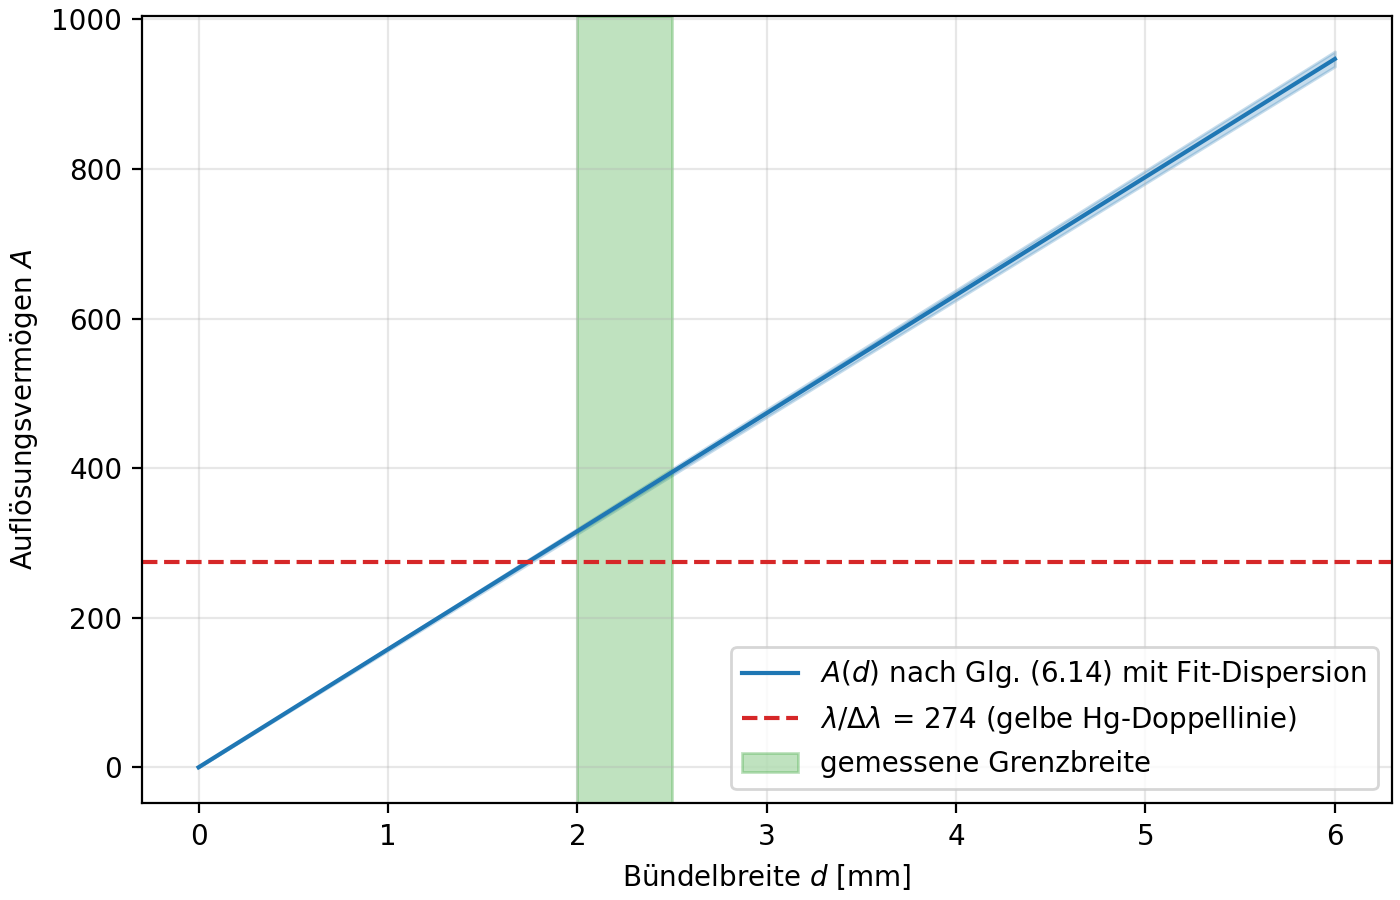
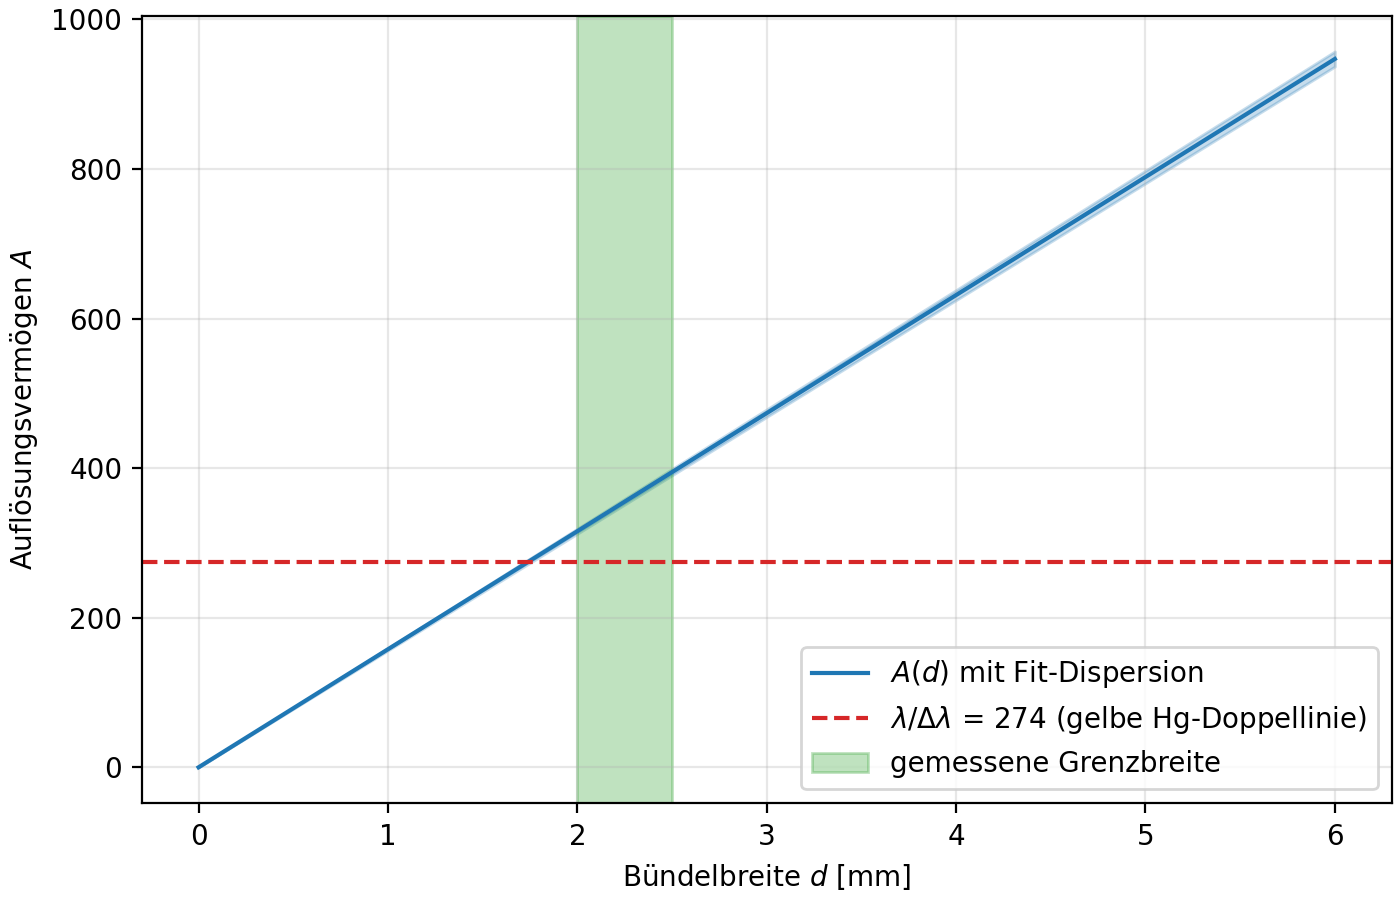
python verbessert

Changed region(s): [[0.5221, 0.7156, 0.9829, 0.9022]]

diff --git a/V5_Optik1/Valentin/auswertung.py b/V5_Optik1/Valentin/auswertung.py
@@ -18,6 +18,7 @@ import uncertainties.umath as umath
 from scipy.optimize import curve_fit
 from scipy.stats import chi2 as chi2_dist
 from pathlib import Path
+from praktikum.literaturwerte import n_schott_f2, n_schott_nsf10
 
 OUTPUT = Path(r'V5_Optik1/Valentin/OutputDateien')
 OUTPUT.mkdir(parents=True, exist_ok=True)
@@ -55,8 +56,7 @@ Lambda_Linien = {
 }
 
 # Schlitzblenden-Messung zum Aufloesungsvermoegen (gelbe Hg-Doppellinie)
-# !!! Hier eure Messwerte eintragen (in mm) !!!
-SPALT_NOCH_AUFGELOEST_MM = 2.5     # kleinste Blendenbreite, bei der die Doppellinie noch getrennt war
+SPALT_NOCH_AUFGELOEST_MM  = 2.5    # kleinste Blendenbreite, bei der die Doppellinie noch getrennt war
 SPALT_NICHT_AUFGELOEST_MM = 2      # groesste Blendenbreite, bei der sie nicht mehr getrennt war
 
 
@@ -192,20 +192,8 @@ print('\nFehlerbeitraege zu n (gelb):')
 for var, beitrag in Erg['gelb']['n'].error_components().items():
     print(f'   {var.tag:18s}: {beitrag:.2e}')
 
-# LaTeX-Tabelle der Ergebnisse
-with open(OUTPUT / 'tabelle_brechungsindex.tex', 'w', encoding='utf-8') as fh:
-    for f in farben:
-        e = Erg[f]
-        fh.write(f"{f.capitalize()} & \\num{{{Lambda_Linien[f]:.2f}}} & "
-                 f"\\num{{{e['delta_V'].nominal_value:.3f} +- {e['delta_V'].std_dev:.3f}}} & "
-                 f"\\num{{{e['delta_L'].nominal_value:.3f} +- {e['delta_L'].std_dev:.3f}}} & "
-                 f"\\num{{{e['n_V'].nominal_value:.5f} +- {e['n_V'].std_dev:.5f}}} & "
-                 f"\\num{{{e['n_L'].nominal_value:.5f} +- {e['n_L'].std_dev:.5f}}} & "
-                 f"\\num{{{e['n'].nominal_value:.5f} +- {e['n'].std_dev:.5f}}} \\\\\n")
-
-
 # ---------------------------------------------------------------------------
-# Anpassung: vereinfachte Sellmeier-Formel = Cauchy-Formel (Glg. 6.13)
+# Anpassung: vereinfachte Sellmeier-Formel = Cauchy-Formel
 # lambda in Mikrometer -> gut konditionierte Parameter
 # ---------------------------------------------------------------------------
 lam_um = lam_arr / 1000
@@ -252,22 +240,41 @@ print(f'chi2/ndof = {chi2_2:.2f}/{ndof2} = {chi2_2 / ndof2:.2f},  p = {chi2_dist
 
 lam_fein = np.linspace(0.39, 0.66, 500)
 
-fig, (ax, rs) = plt.subplots(2, figsize=(9, 7), sharex=True, constrained_layout=True,
-                             gridspec_kw={'height_ratios': [2.2, 1]})
-ax.errorbar(lam_arr, n_nom, yerr=n_err, fmt='o', capsize=3, color='black', zorder=3,
-            label='Messwerte (gewichtetes Mittel V/L)')
-ax.plot(lam_fein * 1000, cauchy3(lam_fein, *popt3), color='tab:blue', lw=2,
-        label=f'Cauchy-Fit $c_0+c_2/\\lambda^2+c_4/\\lambda^4$, $\\chi^2/n_\\mathrm{{dof}}$ = {chi2_3:.1f}/{ndof3}')
-ax.plot(lam_fein * 1000, cauchy2(lam_fein, *popt2), color='tab:orange', lw=1.5, ls='--',
-        label=f'Cauchy-Fit $c_0+c_2/\\lambda^2$, $\\chi^2/n_\\mathrm{{dof}}$ = {chi2_2:.1f}/{ndof2}')
+fig, (ax, rs) = plt.subplots(
+    2,
+    figsize=(9, 7),
+    sharex=True,
+    constrained_layout=True,
+    gridspec_kw={'height_ratios': [2.2, 1]}
+)
+ax.errorbar(
+    lam_arr,
+    n_nom, yerr=n_err,
+    fmt='o', capsize=3,
+    color='black', zorder=3,
+    label='Messwerte (gewichtetes Mittel V/L)'
+    )
+ax.plot(
+    lam_fein * 1000,
+    cauchy3(lam_fein, *popt3),
+    color='tab:blue', lw=2,
+    label=f'Cauchy-Fit $c_0+c_2/\\lambda^2+c_4/\\lambda^4$, $\\chi^2/n_\\mathrm{{dof}}$ = {chi2_3:.1f}/{ndof3}'
+    )
+ax.plot(
+    lam_fein * 1000,
+    cauchy2(lam_fein, *popt2),
+    color='tab:orange',
+    lw=1.5,
+    ls='--',
+    label=f'Cauchy-Fit $c_0+c_2/\\lambda^2$, $\\chi^2/n_\\mathrm{{dof}}$ = {chi2_2:.1f}/{ndof2}'
+    )
 ax.set_ylabel('Brechungsindex $n$')
 ax.set_title('Dispersionskurve $n(\\lambda)$ des Prismas')
 ax.grid(alpha=0.3)
 ax.legend()
 
 rs.errorbar(lam_arr, res3, yerr=n_err, fmt='o', capsize=3, color='tab:blue', label='3-Parameter-Fit')
-rs.errorbar(lam_arr + 3, res2, yerr=n_err, fmt='s', capsize=3, color='tab:orange', mfc='none',
-            label='2-Parameter-Fit (um +3 nm versetzt)')
+rs.errorbar(lam_arr + 3, res2, yerr=n_err, fmt='s', capsize=3, color='tab:orange', mfc='none', label='2-Parameter-Fit (um +3 nm versetzt)')
 rs.axhline(0, color='grey', lw=1)
 rs.set_xlabel('Wellenlänge $\\lambda$ [nm]')
 rs.set_ylabel('$n - n_\\mathrm{fit}$')
@@ -280,35 +287,27 @@ plt.close(fig)
 # ---------------------------------------------------------------------------
 # Vergleich mit Herstellerangaben (SCHOTT-Sellmeier-Koeffizienten, lambda in um)
 # ---------------------------------------------------------------------------
-SCHOTT = {
-    'F2':     (1.34533359, 0.209073176, 0.937357162, 0.00997743871, 0.0470450767, 111.886764),
-    'N-BK7':  (1.03961212, 0.231792344, 1.01046945, 0.00600069867, 0.0200179144, 103.560653),
-    'N-SF10': (1.62153902, 0.256287842, 1.64447552, 0.0122241457, 0.0595736775, 147.468793),
-}
 
+n_F2_kat = np.array(n_schott_f2(lam_um))
+n_nsf10_kat = np.array(n_schott_nsf10(lam_um))
 
-def sellmeier(lam, B1, B2, B3, C1, C2, C3):
-    l2 = lam**2
-    return np.sqrt(1 + B1 * l2 / (l2 - C1) + B2 * l2 / (l2 - C2) + B3 * l2 / (l2 - C3))
+chi2_F2_kat = np.sum(((n_nom - n_F2_kat) / n_err)**2)
+chi2_nsf10_kat = np.sum(((n_nom - n_nsf10_kat) / n_err)**2)
 
+print(f'{'F2':7s}: mittlere Abweichung n_mess - n_kat = {np.mean(n_nom - n_F2_kat):+.5f},  '
+          f'chi2/ndof = {chi2_F2_kat:.1f}/{len(lam_um)}')
+print(f'{'N-SF10':7s}: mittlere Abweichung n_mess - n_kat = {np.mean(n_nom - n_nsf10_kat):+.5f},  '
+          f'chi2/ndof = {chi2_nsf10_kat:.1f}/{len(lam_um)}')
 
-print('\n=== Vergleich mit Herstellerangaben (SCHOTT) ===')
-for glas, koeff in SCHOTT.items():
-    n_kat = sellmeier(lam_um, *koeff)
-    chi2_kat = np.sum(((n_nom - n_kat) / n_err)**2)
-    print(f'{glas:7s}: mittlere Abweichung n_mess - n_kat = {np.mean(n_nom - n_kat):+.5f},  '
-          f'chi2/ndof = {chi2_kat:.1f}/{len(lam_um)}')
-
-n_F2 = sellmeier(lam_um, *SCHOTT['F2'])
 print('\nLinie        n_mess               n_F2       Abw.     Abw./sigma')
-for f, nm, ne, nk in zip(farben, n_nom, n_err, n_F2):
+for f, nm, ne, nk in zip(farben, n_nom, n_err, n_F2_kat):
     print(f'{f:11s} {nm:.5f}+/-{ne:.5f}  {nk:.5f}  {nm - nk:+.5f}  {(nm - nk) / ne:+.2f}')
 
 # gemeinsamer Offset zu F2 (1 Parameter) als Test auf systematische Verschiebung
 w = 1 / n_err**2
-offset = np.sum(w * (n_nom - n_F2)) / np.sum(w)
+offset = np.sum(w * (n_nom - n_F2_kat)) / np.sum(w)
 offset_err = 1 / np.sqrt(np.sum(w))
-chi2_off = np.sum(((n_nom - n_F2 - offset) / n_err)**2)
+chi2_off = np.sum(((n_nom - n_F2_kat - offset) / n_err)**2)
 print(f'Konstanter Offset zu F2: {offset:+.5f} +/- {offset_err:.5f},  '
       f'chi2 nach Offset = {chi2_off:.1f}/{len(lam_um) - 1}')
 
@@ -321,10 +320,10 @@ def n_von_eps(delta_deg, eps_deg):
     return np.sin(np.deg2rad(delta_deg + eps_deg) / 2) / np.sin(np.deg2rad(eps_deg) / 2)
 
 
-popt_eps, pcov_eps = curve_fit(lambda d, e: n_von_eps(d, e), delta_nom, n_F2, p0=[60.0],
+popt_eps, pcov_eps = curve_fit(lambda d, e: n_von_eps(d, e), delta_nom, n_F2_kat, p0=[60.0],
                                sigma=n_err, absolute_sigma=True)
 eps_fit = un.ufloat(popt_eps[0], np.sqrt(pcov_eps[0, 0]))
-chi2_eps = np.sum(((n_von_eps(delta_nom, popt_eps[0]) - n_F2) / n_err)**2)
+chi2_eps = np.sum(((n_von_eps(delta_nom, popt_eps[0]) - n_F2_kat) / n_err)**2)
 print(f"epsilon, das Messung und F2 zur Deckung bringt: {eps_fit} deg "
       f"= 60° {(eps_fit.nominal_value - 60) * 60:+.1f}',  chi2 = {chi2_eps:.1f}/{len(lam_um) - 1}")
 
@@ -333,29 +332,44 @@ lam_CdF = {'C': 0.6563, 'd': 0.5876, 'F': 0.4861, 'D (589,3)': 0.5893}
 n_fit_at = {k: c0_ + c2_ / l**2 + c4_ / l**4
             for k, l in lam_CdF.items() for c0_, c2_, c4_ in [par3]}
 abbe_fit = (n_fit_at['d'] - 1) / (n_fit_at['F'] - n_fit_at['C'])
-n_F2_at = {k: sellmeier(l, *SCHOTT['F2']) for k, l in lam_CdF.items()}
+n_F2_at = {k: n_schott_f2(l) for k, l in lam_CdF.items()}
 abbe_F2 = (n_F2_at['d'] - 1) / (n_F2_at['F'] - n_F2_at['C'])
 print('\nLinie      n_fit                 n_F2')
 for k in lam_CdF:
     print(f'{k:10s} {fmt_u(n_fit_at[k])}   {n_F2_at[k]:.5f}')
 print(f'Abbe-Zahl nu_d: Fit = {abbe_fit:.2f},  F2 = {abbe_F2:.2f}')
 
-fig, (ax, rs) = plt.subplots(2, figsize=(9, 7), sharex=True, constrained_layout=True,
-                             gridspec_kw={'height_ratios': [2.2, 1]})
-farben_glas = {'F2': 'tab:green', 'N-BK7': 'tab:purple', 'N-SF10': 'tab:red'}
+fig, (ax, rs) = plt.subplots(
+    2,
+    figsize=(9, 7),
+    sharex=True,
+    constrained_layout=True,
+    gridspec_kw={'height_ratios': [2.2, 1]}
+    )
 ax.errorbar(lam_arr, n_nom, yerr=n_err, fmt='o', capsize=3, color='black', zorder=3, label='Messwerte')
-for glas, koeff in SCHOTT.items():
-    ax.plot(lam_fein * 1000, sellmeier(lam_fein, *koeff), color=farben_glas[glas], lw=1.8,
-            label=f'SCHOTT {glas} (Herstellerangabe)')
+ax.plot(lam_fein * 1000,
+        n_schott_f2(lam_fein),
+        color='tab:green',
+        lw=1.8,
+        label='SCHOTT F2 (Literaturwert)'
+        )
+ax.plot(lam_fein * 1000,
+        n_schott_nsf10(lam_fein),
+        color='tab:red',
+        lw=1.8,
+        label='SCHOTT N_SF10 (Herstellerangabe)'
+        )
 ax.set_ylabel('Brechungsindex $n$')
-ax.set_title('Vergleich mit Herstellerangaben')
+ax.set_title('Vergleich mit Literaturwerten')
 ax.grid(alpha=0.3)
 ax.legend()
 
-rs.errorbar(lam_arr, n_nom - n_F2, yerr=n_err, fmt='o', capsize=3, color='black', label='$n_\\mathrm{mess}-n_\\mathrm{F2}$')
-rs.plot(lam_fein * 1000, cauchy3(lam_fein, *popt3) - sellmeier(lam_fein, *SCHOTT['F2']),
-        color='tab:blue', label='Cauchy-Fit $-$ F2')
-rs.axhline(0, color='tab:green', lw=1.5)
+rs.errorbar(lam_arr, n_nom - n_F2_kat, yerr=n_err, fmt='o', capsize=3, color='black', label='$n_\\mathrm{mess}-n_\\mathrm{F2}$')
+rs.plot(lam_fein * 1000,
+        cauchy3(lam_fein, *popt3) - n_schott_f2(lam_fein),
+        color='tab:blue',
+        label='Cauchy-Fit $-$ F2 (Literaturwert)'
+        )
 rs.set_xlabel('Wellenlänge $\\lambda$ [nm]')
 rs.set_ylabel('$n - n_\\mathrm{F2}$')
 rs.grid(alpha=0.3)
@@ -370,7 +384,7 @@ plt.close(fig)
 lam1, lam2 = 576.96, 579.07                 # nm
 lam_m = (lam1 + lam2) / 2
 dlam = lam2 - lam1
-A_noetig = lam_m / dlam                      # Glg. 6.10: benoetigtes Aufloesungsvermoegen
+A_noetig = lam_m / dlam                      
 
 # Dispersion dn/dlambda bei lam_m aus dem Fit (korrelierte Parameter!)
 c0, c2, c4 = par3
@@ -396,34 +410,30 @@ print(f'erwartete Grenz-Buendelbreite d = {d_grenz_erwartet_nm / 1e6:.3f} mm')
 A_pro_mm = -dn_dlam * geo * 1e6
 print(f'A(d) = {A_pro_mm:.1f} * d/mm')
 
-if SPALT_NOCH_AUFGELOEST_MM is not None and SPALT_NICHT_AUFGELOEST_MM is not None:
-    b1, b2 = SPALT_NICHT_AUFGELOEST_MM, SPALT_NOCH_AUFGELOEST_MM
-    # Grenzbreite liegt irgendwo im Intervall [b1, b2] -> Gleichverteilung
-    d_grenz = un.ufloat((b1 + b2) / 2, (b2 - b1) / np.sqrt(12), tag='Blendenbreite')
-    A_exp = A_pro_mm * d_grenz
-    abw = (A_exp - A_noetig)
-    print(f'gemessene Grenzbreite d = {d_grenz} mm')
-    print(f'experimentelles Aufloesungsvermoegen A = {A_exp}')
-    print(f'Vergleich mit lambda/dlambda = {A_noetig:.1f}: Abweichung {abw.nominal_value:.1f} '
-          f'= {abw.nominal_value / abw.std_dev:.1f} sigma')
-    for var, beitrag in A_exp.error_components().items():
-        if beitrag > 0.05:
-            print(f'   Beitrag {var.tag}: {beitrag:.2f}')
-else:
-    print('-> Blendenbreiten SPALT_NOCH_AUFGELOEST_MM / SPALT_NICHT_AUFGELOEST_MM oben eintragen!')
+b1, b2 = SPALT_NICHT_AUFGELOEST_MM, SPALT_NOCH_AUFGELOEST_MM
+# Grenzbreite liegt irgendwo im Intervall [b1, b2] -> Gleichverteilung
+d_grenz = un.ufloat((b1 + b2) / 2, (b2 - b1) / np.sqrt(12), tag='Blendenbreite')
+A_exp = A_pro_mm * d_grenz
+abw = (A_exp - A_noetig)
+print(f'gemessene Grenzbreite d = {d_grenz} mm')
+print(f'experimentelles Aufloesungsvermoegen A = {A_exp}')
+print(f'Vergleich mit lambda/dlambda = {A_noetig:.1f}: Abweichung {abw.nominal_value:.1f} '
+        f'= {abw.nominal_value / abw.std_dev:.1f} sigma')
+for var, beitrag in A_exp.error_components().items():
+    if beitrag > 0.05:
+        print(f'   Beitrag {var.tag}: {beitrag:.2f}')
 
 # Plot A(d) mit Erwartung
 fig, ax = plt.subplots(figsize=(7, 4.5), constrained_layout=True)
 d_ax = np.linspace(0, 6, 200)
 A_nom = A_pro_mm.nominal_value * d_ax
 A_sig = A_pro_mm.std_dev * d_ax
-ax.plot(d_ax, A_nom, color='tab:blue', label='$A(d)$ nach Glg. (6.14) mit Fit-Dispersion')
+ax.plot(d_ax, A_nom, color='tab:blue', label='$A(d)$ mit Fit-Dispersion')
 ax.fill_between(d_ax, A_nom - A_sig, A_nom + A_sig, color='tab:blue', alpha=0.25)
 ax.axhline(A_noetig, color='tab:red', ls='--',
            label=f'$\\lambda/\\Delta\\lambda$ = {A_noetig:.0f} (gelbe Hg-Doppellinie)')
-if SPALT_NOCH_AUFGELOEST_MM is not None and SPALT_NICHT_AUFGELOEST_MM is not None:
-    ax.axvspan(SPALT_NICHT_AUFGELOEST_MM, SPALT_NOCH_AUFGELOEST_MM, color='tab:green', alpha=0.3,
-               label='gemessene Grenzbreite')
+ax.axvspan(SPALT_NICHT_AUFGELOEST_MM, SPALT_NOCH_AUFGELOEST_MM, color='tab:green', alpha=0.3,
+            label='gemessene Grenzbreite')
 ax.set_xlabel('Bündelbreite $d$ [mm]')
 ax.set_ylabel('Auflösungsvermögen $A$')
 ax.grid(alpha=0.3)
